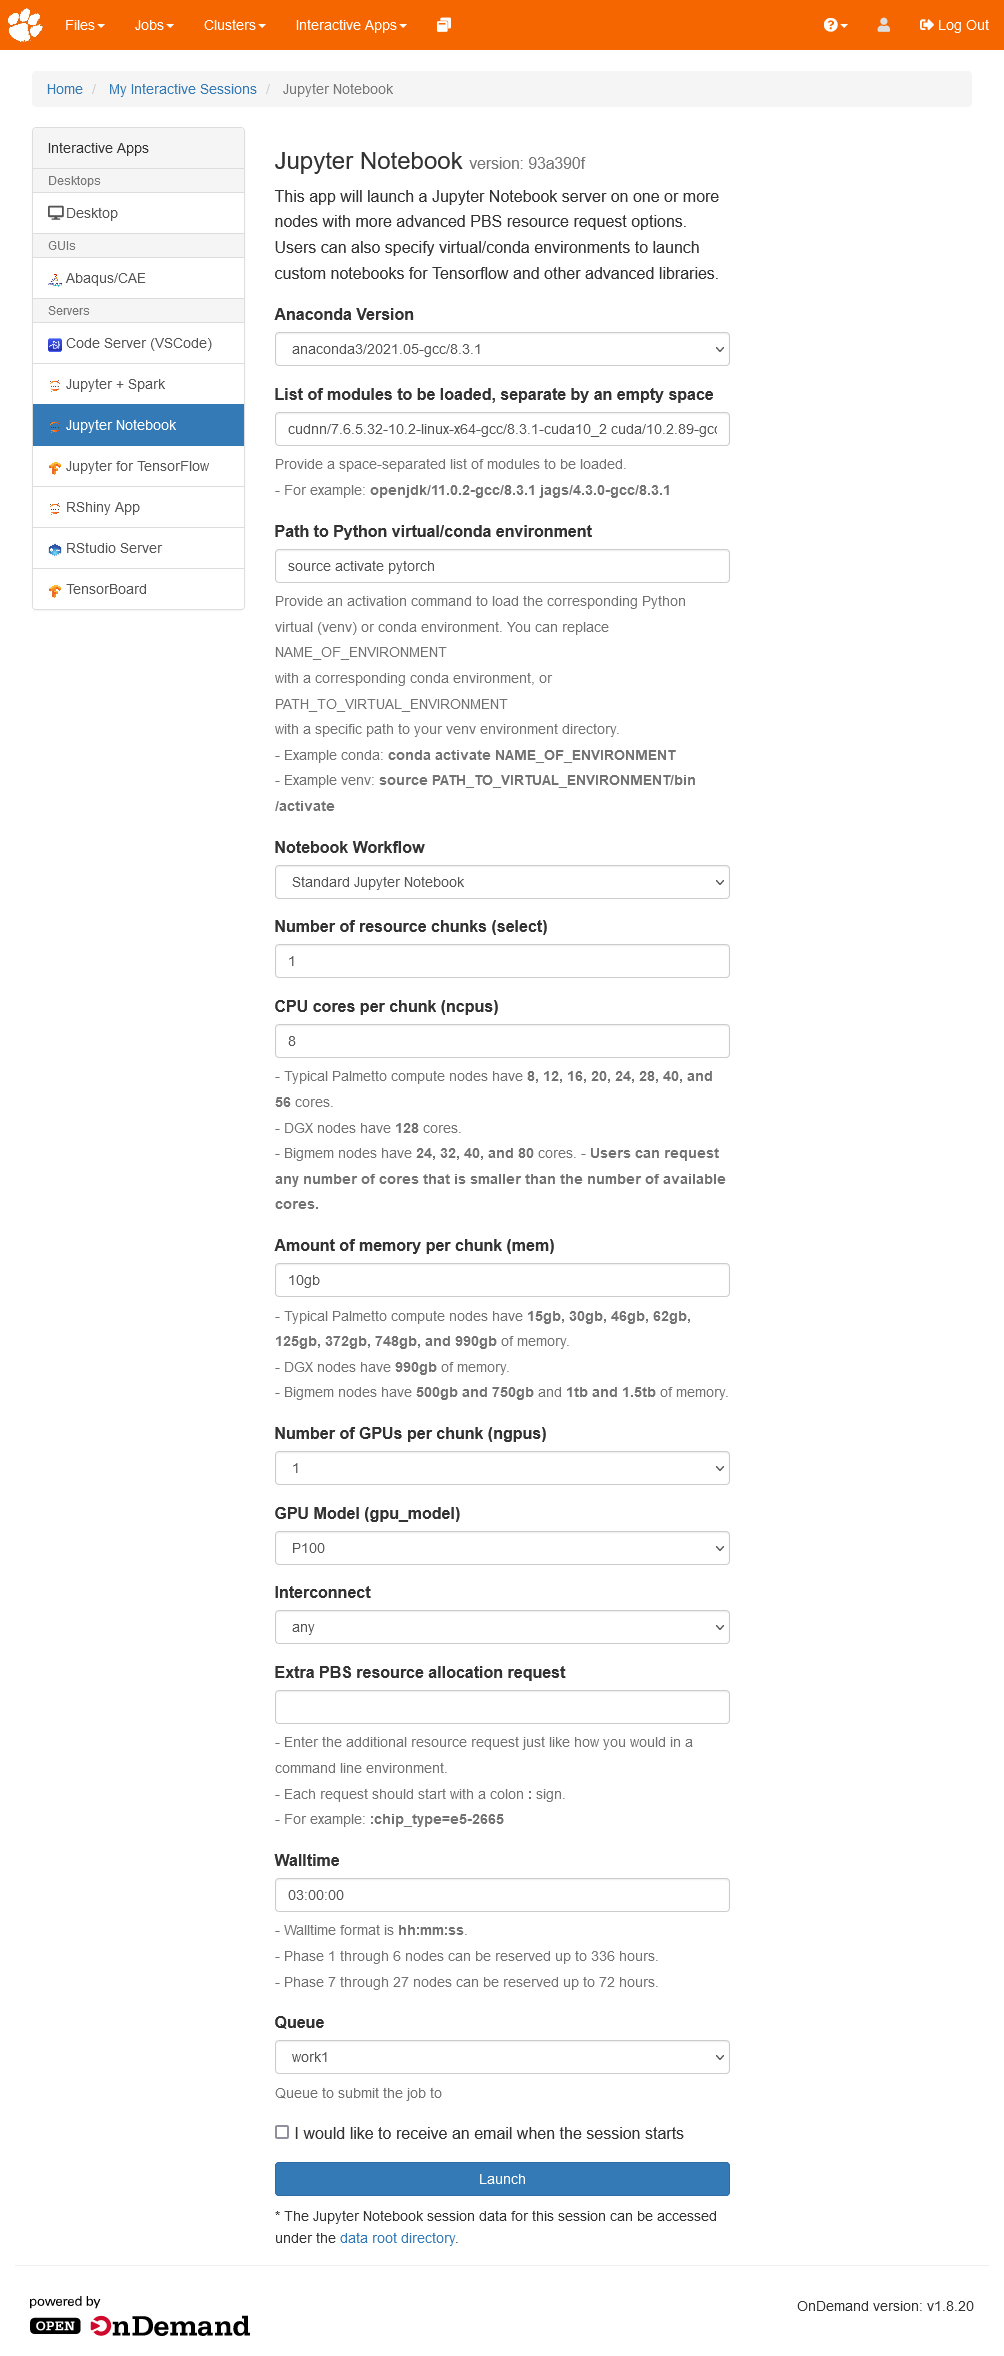
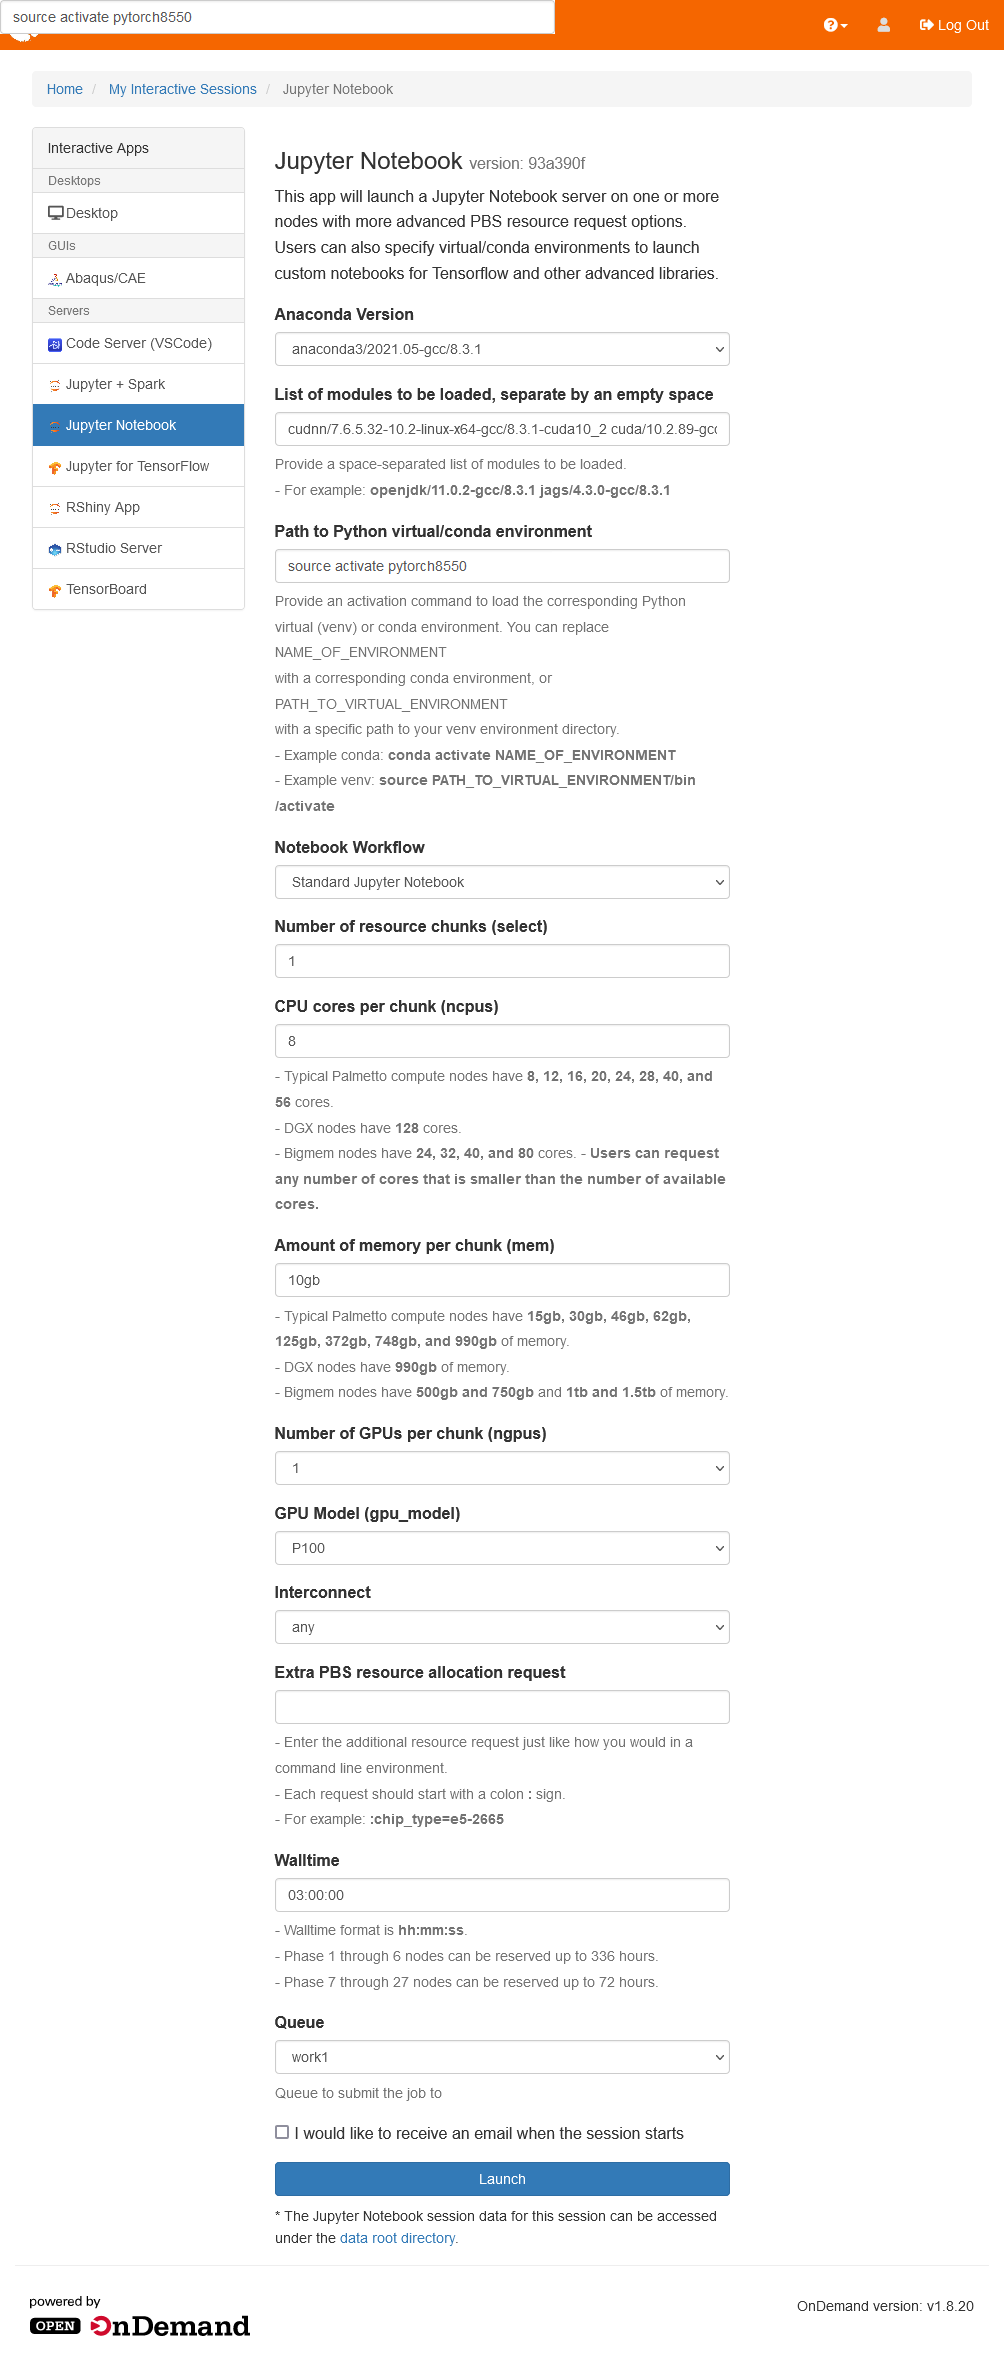
rename conda env

Changed region(s): [[0.0, 0.0, 0.5558, 0.031]]

diff --git a/README.md b/README.md
@@ -49,16 +49,16 @@ Cuda compilation tools, release 10.2, V10.2.89
 
 > To list the available modules, refer to [Modules at Palmetto](https://www.palmetto.clemson.edu/palmetto/software/software/#modules).
 
-3) Create a conda environment called `pytorch` (or any name you like):
+3) Create a conda environment called `pytorch8550` (or any name you like):
 
 ~~~
-$ conda create -n pytorch anaconda python=3.9
+$ conda create -n pytorch8550 anaconda python=3.9
 ~~~
 
 4) Activate the conda environment:
 
 ~~~
-$ source activate pytorch
+$ source activate pytorch8550
 ~~~
 
 5) Install Pytorch with GPU support from the pytorch channel:
@@ -82,12 +82,12 @@ Tesla P100-PCIE-12GB
 
 ## PyTorch in Terminal
 
-Each time you login, you will first need to request harware resources, load the required modules, and also activate the `pytorch` conda environment before running Python:
+Each time you login, you will first need to request harware resources, load the required modules, and also activate the `pytorch8550` conda environment before running Python:
 
 ~~~
 $ qsub -I -l select=1:ncpus=16:mem=20gb:ngpus=1:gpu_model=p100:interconnect=10ge,walltime=3:00:00
 $ module load anaconda3/2021.05-gcc/8.3.1 cudnn/7.6.5.32-10.2-linux-x64-gcc/8.3.1-cuda10_2 cuda/10.2.89-gcc/8.3.1
-$ source activate pytorch
+$ source activate pytorch8550
 ~~~
 
 ## PyTorch on OpenOnDemand
@@ -99,7 +99,7 @@ If you want to write code using JupyterLab, the browser-based notebook is a bett
 - Make the following selections:
   - Anaconda Version: `anaconda3/2021.05-gcc/8.3.1`
   - List of modules to be loaded, separate by an empty space: `cudnn/7.6.5.32-10.2-linux-x64-gcc/8.3.1-cuda10_2 cuda/10.2.89-gcc/8.3.1`
-  - Path to Python virtual/conda environment: `source activate pytorch`
+  - Path to Python virtual/conda environment: `source activate pytorch8550`
 - Make the remaining selections according to how much resources you would need.
   - Number of resource chunks: `1`
   - CPU cores per chunk: `8`
